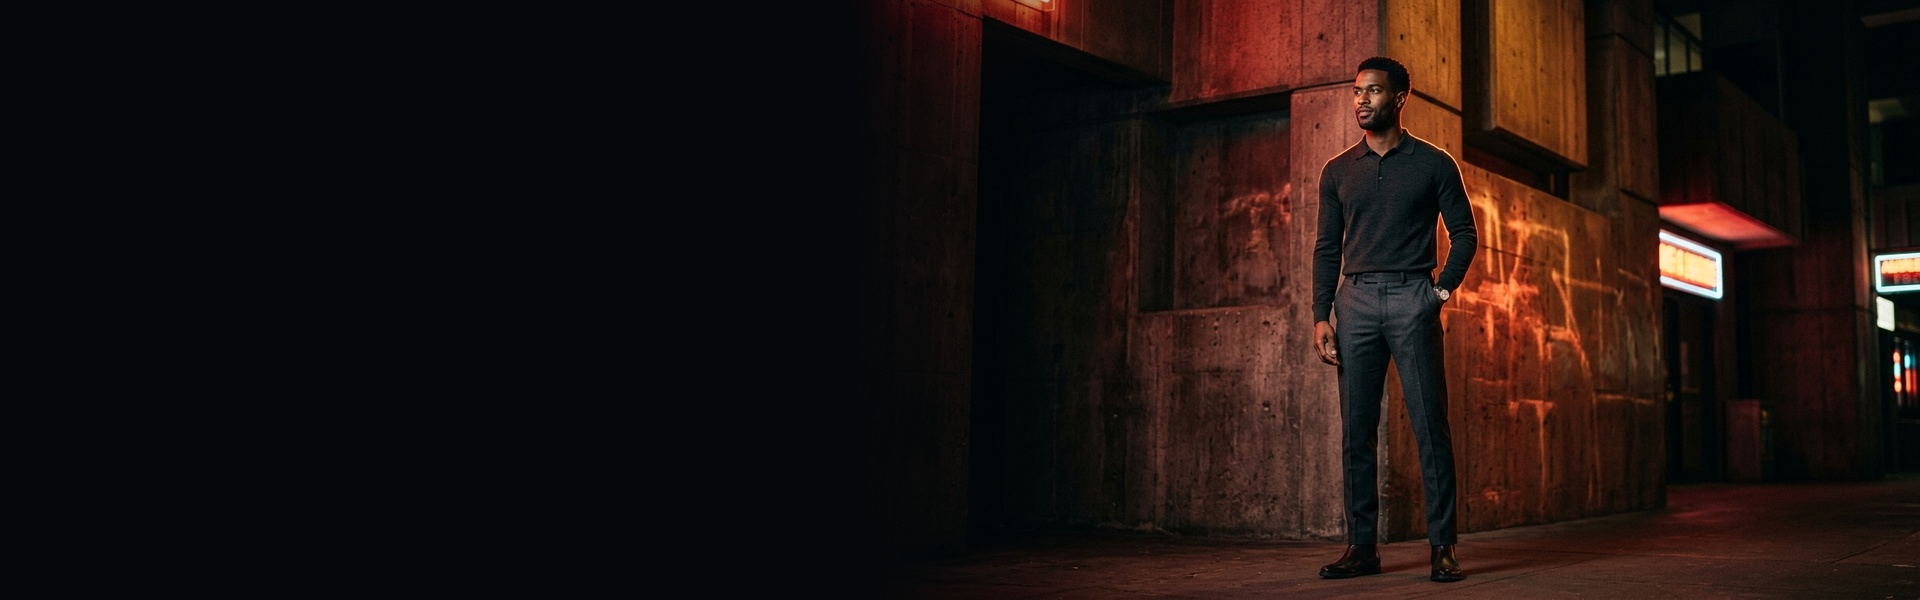
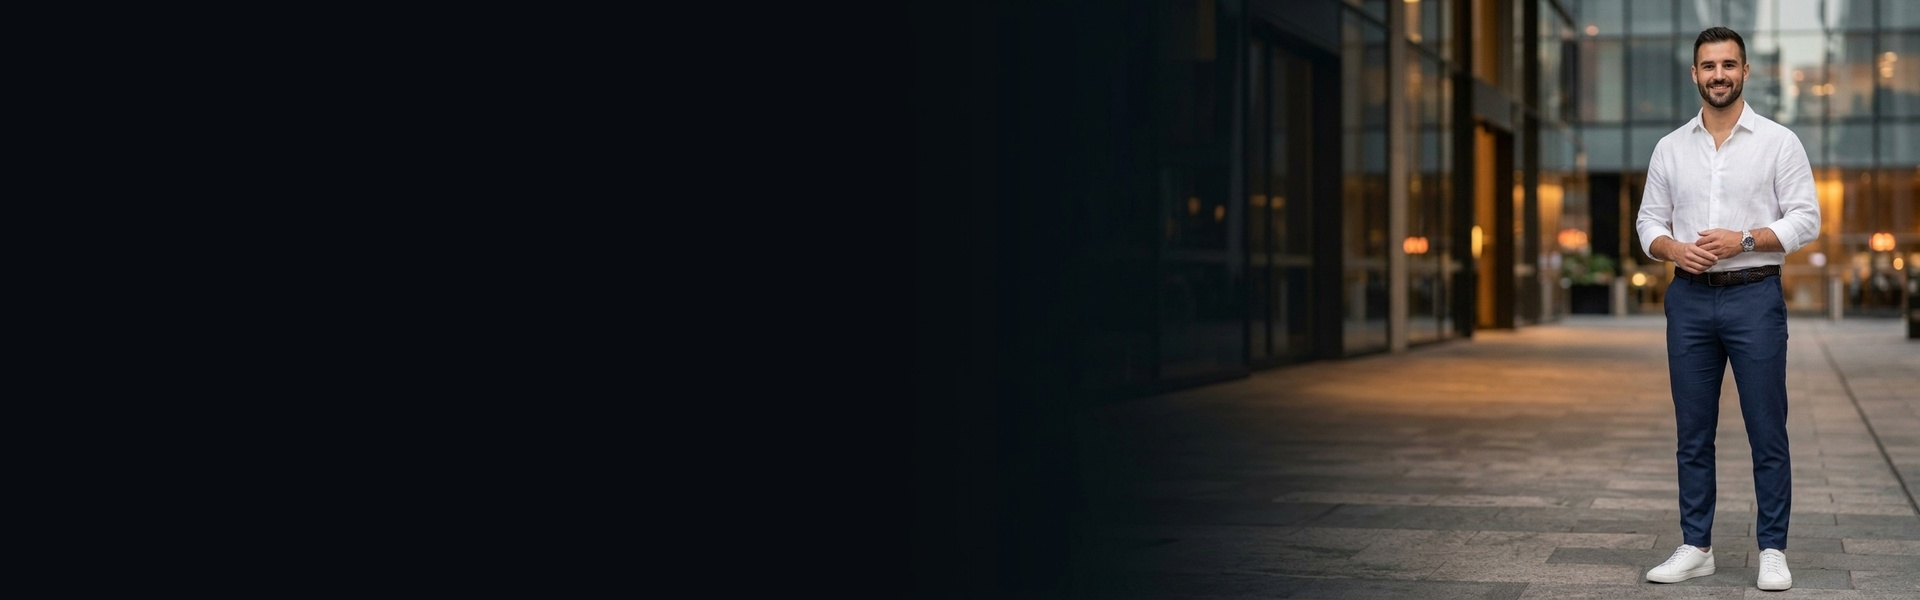
feat(branding): position IQ Trousers as direct manufacturer of trousers and formal pants

diff --git a/src/components/home/HeroCarousel.tsx b/src/components/home/HeroCarousel.tsx
@@ -185,17 +185,22 @@ export default function HeroCarousel() {
               {/* Poster Foreground Content */}
               <div className="relative h-full max-w-7xl mx-auto px-6 sm:px-12 lg:px-16 flex items-center">
                 <div className="max-w-xl lg:max-w-2xl py-6 sm:py-8 space-y-2.5 sm:space-y-3">
-                  {/* 1. Official Company Branding Lockup (Levi's / Lewis Style) */}
+                  {/* 1. Official Company Branding Lockup (Trouser & Formal Pant Manufacturer) */}
                   <div className="flex items-center gap-2.5">
                     <div className="bg-[#b91c1c] text-white font-black text-xs px-2.5 py-1 tracking-widest uppercase rounded-xs shadow-md font-sans">
                       IQ
                     </div>
                     <div className="flex flex-col text-left">
-                      <span className="text-xs sm:text-sm font-black tracking-widest text-white uppercase font-sans">
-                        IQ TROUSERS
-                      </span>
+                      <div className="flex items-center gap-2">
+                        <span className="text-xs sm:text-sm font-black tracking-widest text-white uppercase font-sans">
+                          IQ TROUSERS
+                        </span>
+                        <span className="px-1.5 py-0.5 rounded-xs bg-amber-400/20 text-amber-300 border border-amber-400/40 text-[9px] font-black tracking-wider uppercase">
+                          MANUFACTURER DIRECT
+                        </span>
+                      </div>
                       <span className="text-[9px] sm:text-[10px] tracking-widest text-neutral-400 uppercase font-medium">
-                        EST. AHMEDABAD • THE ORIGINAL FIT
+                        AHMEDABAD TEXTILE MILLS • TROUSERS &amp; FORMAL PANTS
                       </span>
                     </div>
                   </div>
@@ -205,21 +210,21 @@ export default function HeroCarousel() {
                     {slide.type === "festival" && (
                       <span className="inline-flex items-center gap-1.5 px-3 py-0.5 rounded-full text-[10px] sm:text-[11px] font-black tracking-widest uppercase bg-amber-400/20 text-amber-300 border border-amber-400/40 shadow-xs">
                         <Flame className="w-3.5 h-3.5 text-amber-400" />
-                        <span>BLACK-TIE BESPOKE • FORMAL WEAR</span>
+                        <span>IN-HOUSE TROUSER MILL • BESPOKE FORMAL PANTS</span>
                       </span>
                     )}
 
                     {slide.type === "discount" && (
                       <span className="inline-flex items-center gap-1.5 px-3 py-0.5 rounded-full text-[10px] sm:text-[11px] font-black tracking-widest uppercase bg-rose-500/20 text-rose-300 border border-rose-500/40 shadow-xs">
                         <Tag className="w-3.5 h-3.5 text-rose-400" />
-                        <span>VIP PRIVILEGE • 25% OFF STOREWIDE + VOUCHER</span>
+                        <span>FACTORY-DIRECT PRIVILEGE • 25% OFF HONEST MAKER PRICING</span>
                       </span>
                     )}
 
                     {slide.type === "new-arrival" && (
                       <span className="inline-flex items-center gap-1.5 px-3 py-0.5 rounded-full text-[10px] sm:text-[11px] font-black tracking-widest uppercase bg-sky-500/20 text-sky-300 border border-sky-500/40 shadow-xs">
                         <Sparkles className="w-3.5 h-3.5 text-sky-400" />
-                        <span>SIGNATURE CASUALS • 4-WAY ADAPTIVE FLEX</span>
+                        <span>100% DEDICATED TROUSER &amp; PANT SPECIALISTS</span>
                       </span>
                     )}
                   </div>
@@ -228,8 +233,8 @@ export default function HeroCarousel() {
                   <div>
                     {slide.type === "festival" && (
                       <h2 className="text-2xl sm:text-3xl md:text-4xl lg:text-[42px] font-black tracking-tighter text-white uppercase leading-[0.95] font-sans drop-shadow-2xl">
-                        SHARP ENOUGH TO <br />
-                        <span className="text-amber-400">CUT THE TENSION.</span>
+                        MASTER-CRAFTED FORMAL PANTS. <br />
+                        <span className="text-amber-400">DIRECT FROM OUR MILL.</span>
                       </h2>
                     )}
 
@@ -242,8 +247,8 @@ export default function HeroCarousel() {
 
                     {slide.type === "new-arrival" && (
                       <h2 className="text-2xl sm:text-3xl md:text-4xl lg:text-[42px] font-black tracking-tighter text-white uppercase leading-[0.95] font-sans drop-shadow-2xl">
-                        TOO COMFORTABLE <br />
-                        <span className="text-sky-400">TO BE THIS SHARP.</span>
+                        WE DON&apos;T MAKE EVERYTHING. <br />
+                        <span className="text-sky-400">WE PERFECT TROUSERS.</span>
                       </h2>
                     )}
                   </div>
@@ -251,13 +256,13 @@ export default function HeroCarousel() {
                   {/* 4. Subtitle */}
                   <p className="text-xs sm:text-[13px] md:text-sm font-bold text-amber-100/90 tracking-tight leading-snug drop-shadow-sm max-w-md sm:max-w-lg line-clamp-2">
                     {slide.type === "festival" && (
-                      <>When your trousers drape this flawlessly, walking in isn&apos;t an arrival — it&apos;s a statement.</>
+                      <>Every pair of formal pants is precision-patterned, mill-woven, and hand-creased in our Ahmedabad workshop. True maker craftsmanship—no retail markup.</>
                     )}
                     {slide.type === "discount" && (
-                      <>25% off every pair storewide + instant ₹{activeCoupon.value} voucher at checkout. Direct from Ahmedabad, with zero luxury markup.</>
+                      <>By manufacturing in-house, we eliminate showroom commissions. Get ₹3,500+ luxury-grade formal pants direct from the workshop with 25% off + ₹{activeCoupon.value} voucher.</>
                     )}
                     {slide.type === "new-arrival" && (
-                      <>Engineered with 360° adaptive stretch. Moves with you all day, never wrinkles, and holds its razor-sharp fit.</>
+                      <>We manufacture only trousers and formal pants. Decades of dedicated pattern engineering deliver an immaculate silhouette and all-day 360° adaptive flex.</>
                     )}
                   </p>
 
@@ -265,13 +270,13 @@ export default function HeroCarousel() {
                   {slide.type === "festival" && (
                     <div className="pt-0.5 flex flex-wrap gap-1.5">
                       <span className="inline-flex items-center gap-1.5 px-2.5 py-0.5 rounded-full bg-white/10 backdrop-blur-md border border-white/20 text-[11px] font-semibold text-white tracking-wide">
-                        ✦ 100% Worsted Weave
+                        ✦ In-House Worsted Weave
                       </span>
                       <span className="inline-flex items-center gap-1.5 px-2.5 py-0.5 rounded-full bg-white/10 backdrop-blur-md border border-white/20 text-[11px] font-semibold text-white tracking-wide">
-                        ★ Hand-Tailored Ahmedabad Cut
+                        ★ Ahmedabad Master Tailoring
                       </span>
                       <span className="inline-flex items-center gap-1.5 px-2.5 py-0.5 rounded-full bg-white/10 backdrop-blur-md border border-white/20 text-[11px] font-semibold text-white tracking-wide">
-                        ⚡ Razor-Creased Finish
+                        ⚡ Permanent Razor-Creased Drape
                       </span>
                     </div>
                   )}
@@ -282,7 +287,7 @@ export default function HeroCarousel() {
                       <div className="inline-flex flex-wrap items-center gap-2.5 p-2 rounded-lg bg-black/60 backdrop-blur-md border border-dashed border-rose-500/80 shadow-md">
                         <div className="flex flex-col text-left pr-2 border-r border-white/15">
                           <span className="text-[8px] font-black uppercase tracking-widest text-neutral-400">
-                            INSTANT VOUCHER
+                            DIRECT MAKER VOUCHER
                           </span>
                           <span className="text-sm sm:text-base font-black tracking-widest text-amber-300 font-mono">
                             {activeCoupon.code}
@@ -313,7 +318,7 @@ export default function HeroCarousel() {
                       </div>
 
                       <p className="text-[11px] text-neutral-300 font-medium">
-                        ⚡ Applied at checkout on orders over ₹{activeCoupon.minOrder.toLocaleString("en-IN")}.
+                        ⚡ Direct manufacturer discount applied at checkout on orders over ₹{activeCoupon.minOrder.toLocaleString("en-IN")}.
                       </p>
                     </div>
                   )}
@@ -322,13 +327,13 @@ export default function HeroCarousel() {
                   {slide.type === "new-arrival" && (
                     <div className="flex flex-wrap gap-1.5 pt-0.5">
                       <span className="inline-flex items-center gap-1.5 px-2.5 py-0.5 rounded-full bg-white/10 backdrop-blur-md border border-white/20 text-[11px] font-semibold text-white tracking-wide shadow-xs">
-                        ⚡ 360° Flex Mobility
+                        ✦ Specialized Trouser Mills
                       </span>
                       <span className="inline-flex items-center gap-1.5 px-2.5 py-0.5 rounded-full bg-white/10 backdrop-blur-md border border-white/20 text-[11px] font-semibold text-white tracking-wide shadow-xs">
-                        ✦ Zero-Iron Memory Crease
+                        ★ High-Density Safety Seams
                       </span>
                       <span className="inline-flex items-center gap-1.5 px-2.5 py-0.5 rounded-full bg-white/10 backdrop-blur-md border border-white/20 text-[11px] font-semibold text-white tracking-wide shadow-xs">
-                        ★ Tailored Ankle Break
+                        ⚡ 360° Adaptive Formal Stretch
                       </span>
                     </div>
                   )}
@@ -340,16 +345,16 @@ export default function HeroCarousel() {
                       className="inline-flex items-center justify-center gap-2 px-6 sm:px-7 py-2.5 sm:py-3 rounded-full bg-white text-neutral-950 font-black text-xs uppercase tracking-widest hover:bg-neutral-200 active:scale-95 transition-all shadow-xl cursor-pointer"
                     >
                       <span>
-                        {slide.type === "festival" && "COMMAND THE ROOM"}
-                        {slide.type === "discount" && "SNAG YOUR FIT"}
-                        {slide.type === "new-arrival" && "EXPLORE SIGNATURE FITS"}
+                        {slide.type === "festival" && "EXPLORE FORMAL PANTS"}
+                        {slide.type === "discount" && "CLAIM FACTORY PRICING"}
+                        {slide.type === "new-arrival" && "SHOP OUR TROUSERS"}
                       </span>
                       <ArrowRight className="w-4 h-4" />
                     </Link>
 
                     <span className="text-xs font-bold tracking-widest text-neutral-400 uppercase hidden sm:inline-flex items-center gap-1.5">
                       <CheckCircle2 className="w-3.5 h-3.5 text-emerald-400" />
-                      <span>Pan-India DTDC Express</span>
+                      <span>Direct From Mill • Pan-India DTDC Express</span>
                     </span>
                   </div>
                 </div>

diff --git a/src/lib/monthlyCampaigns.ts b/src/lib/monthlyCampaigns.ts
@@ -594,7 +594,7 @@ export function getMonthlyPosters(monthIndex?: number, activeCouponCode?: string
     {
       id: `festival-${config.monthName.toLowerCase()}`,
       type: "festival",
-      tabTitle: "Festive Gala",
+      tabTitle: "Formal Pants",
       badge: config.festival.badge,
       tagline: config.festival.tagline,
       title: config.festival.title,
@@ -610,7 +610,7 @@ export function getMonthlyPosters(monthIndex?: number, activeCouponCode?: string
     {
       id: `discount-${config.monthName.toLowerCase()}`,
       type: "discount",
-      tabTitle: "Mega Sale",
+      tabTitle: "Factory Direct",
       badge: config.discount.badge,
       tagline: config.discount.tagline,
       title: config.discount.title,
@@ -628,7 +628,7 @@ export function getMonthlyPosters(monthIndex?: number, activeCouponCode?: string
     {
       id: `new-arrival-${config.monthName.toLowerCase()}`,
       type: "new-arrival",
-      tabTitle: "New Arrivals",
+      tabTitle: "Trouser Specialists",
       badge: config.newArrival.badge,
       tagline: config.newArrival.tagline,
       title: config.newArrival.title,
